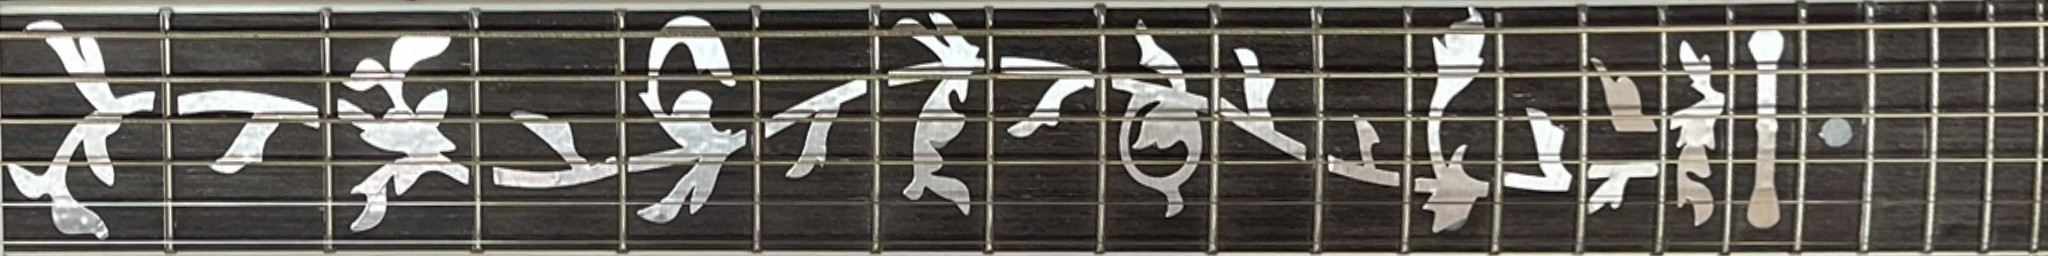
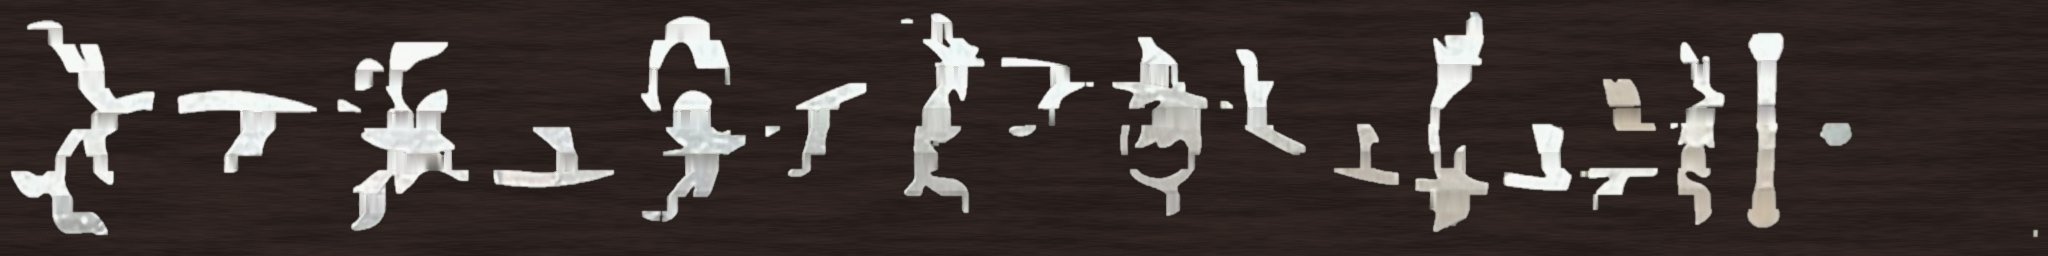
Clean fretboard, headstock face and rosette textures
The fretboard texture no longer bakes in the photographed strings, string
shadows, fret wires or wallpaper: only the pearl tree-of-life inlay is
lifted from the fret-by-fret rectified photo (string bands cleared and
bridged, fret wires dropped) and composited onto procedural dark rosewood.
The headstock face keeps only the Veston logo on satin black so the
modelled tuners do not double up. Adds an optional GuitarTextures.rosette
field to the shared contract (additive).

diff --git a/packages/shared/src/guitar.ts b/packages/shared/src/guitar.ts
@@ -23,6 +23,12 @@ export interface GuitarTextures {
   headstock?: string;
   /** Back photo of the body (optional), same mapping as bodyTop but mirrored across y. */
   bodyBack?: string;
+  /**
+   * Square RGBA ring texture of the rosette (optional), centred on body.soundhole: the texture's
+   * inscribed circle is the rosette's outer edge and the soundhole edge sits at 78 % of that
+   * radius (transparent inside).
+   */
+  rosette?: string;
 }
 
 export interface GuitarFinish {

diff --git a/scripts/build-veston-textures.py b/scripts/build-veston-textures.py
@@ -5,8 +5,11 @@ The photo is taken at a slight angle, so a single 4-corner homography misplaces
 the frets by up to ~80 px. Instead every fret wire was measured by hand in the
 photo and the fretboard is warped piecewise between consecutive frets, so the
 photographed fret wires land exactly on the 12-TET positions used by the 3D neck.
-The photographed strings are kept: they sit right under the 3D strings and read as
-their shadows, while inpainting them damaged the pearl inlays.
+The final fretboard texture is *clean*: only the pearl tree-of-life inlay is lifted
+from the photo (bright, low-saturation, wide shapes; strings and fret wires are thin
+lines and are removed by a morphological opening followed by a short constrained
+reconstruction) and composited onto a procedural dark rosewood. No strings, string
+shadows, fret wires or wallpaper remain; the 3D model draws frets, binding and strings.
 
 Run: python3 scripts/build-veston-textures.py   (needs Pillow)
 """
@@ -14,7 +17,9 @@ import json
 import math
 from pathlib import Path
 
-from PIL import Image
+import random
+
+from PIL import Image, ImageChops, ImageFilter
 
 ROOT = Path(__file__).resolve().parent.parent
 SRC = ROOT / "assets/photos/front-neck.jpg"
@@ -134,10 +139,125 @@ def build_headstock(img, out_w=512, out_h=1024):
     return res, meta
 
 
+def fret_columns(out_w):
+    total = 1 - 2 ** (-PHOTO_FRET / 12)
+    return [(1 - 2 ** (-n / 12)) / total * out_w for n in range(0, PHOTO_FRET + 1)]
+
+
+def _runs(seq):
+    """(start, end) of the True runs in a list of booleans."""
+    out, start = [], None
+    for i, v in enumerate(seq):
+        if v and start is None:
+            start = i
+        elif not v and start is not None:
+            out.append((start, i))
+            start = None
+    if start is not None:
+        out.append((start, len(seq)))
+    return out
+
+
+# Rows of the photographed strings in the 2048x256 rectified board (low E first), measured as
+# brightness peaks of the column-median at u = 128 and u = 1920; linear in between.
+STRING_ROWS = [(36, 25), (80, 70), (121, 115), (163, 160), (204, 201), (242, 243)]
+STRING_U = (128, 1920)
+
+
+def inlay_mask(rect, edge=12, band=6, fret_px=16):
+    """Pearl inlay of the rectified fretboard photo -> (alpha mask, pearl colour image).
+
+    1. candidate pixels: bright and low-saturation (pearl), away from the binding.
+    2. strings: a band of +-band px around every photographed string is cleared; per
+       column the band is re-filled only where pearl continues on both sides of it
+       (the string crossed an inlay), its colour interpolated from above and below.
+    3. fret wires run across the board: per row, short runs (< fret_px) centred near
+       a fret column are dropped (the 3D frets sit there anyway).
+    4. specks are removed by a small opening; the edge is softened.
+    """
+    w, h = rect.size
+    hsv = rect.convert("HSV").load()
+    px = rect.load()
+    colour = rect.copy()
+    cp = colour.load()
+    m = [[False] * h for _ in range(w)]  # m[x][y]
+    for x in range(w):
+        col = m[x]
+        for y in range(edge, h - edge):
+            _, s_, v = hsv[x, y]
+            col[y] = v > 125 and s_ < 70
+        t = (x - STRING_U[0]) / (STRING_U[1] - STRING_U[0])
+        for r0, r1 in STRING_ROWS:
+            c = r0 + (r1 - r0) * t
+            a, b = max(0, int(c - band)), min(h - 1, int(c + band) + 1)
+            ya = next((y for y in range(a - 1, max(a - 7, -1), -1) if col[y]), None)
+            yb = next((y for y in range(b + 1, min(b + 7, h)) if col[y]), None)
+            for y in range(a, b + 1):
+                col[y] = False
+            if ya is not None and yb is not None:
+                # the string crossed the pearl: bridge the gap, colour from both sides
+                top, bot = px[x, max(ya - 1, 0)], px[x, min(yb + 1, h - 1)]
+                for y in range(ya + 1, yb):
+                    k = (y - ya) / (yb - ya)
+                    col[y] = True
+                    cp[x, y] = tuple(int(top[q] + (bot[q] - top[q]) * k) for q in range(3))
+    frets = fret_columns(w)
+    for y in range(h):
+        row = [m[x][y] for x in range(w)]
+        for a, b in _runs(row):
+            c = (a + b) / 2
+            if b - a < fret_px and min(abs(c - f) for f in frets) < 12:
+                for x in range(a, b):
+                    m[x][y] = False
+    mask = Image.new("L", (w, h))
+    mp = mask.load()
+    for x in range(w):
+        for y in range(h):
+            if m[x][y]:
+                mp[x, y] = 255
+    mask = mask.filter(ImageFilter.MinFilter(5)).filter(ImageFilter.MaxFilter(5))
+    return mask.filter(ImageFilter.GaussianBlur(0.8)), colour
+
+
+def rosewood(w, h, seed=7):
+    """Procedural dark rosewood: long streaks along u (the grain) at two scales."""
+    rnd = random.Random(seed)
+
+    def streaks(cols, rows):
+        n = Image.new("L", (cols, rows))
+        n.putdata([rnd.randint(0, 255) for _ in range(cols * rows)])
+        return n.resize((w, h), Image.BICUBIC)
+
+    coarse = streaks(24, 40)
+    fine = streaks(160, 220)
+    cp, fp = coarse.load(), fine.load()
+    out = Image.new("RGB", (w, h))
+    op = out.load()
+    for y in range(h):
+        for x in range(w):
+            t = (cp[x, y] - 128) / 128 * 0.55 + (fp[x, y] - 128) / 128 * 0.45
+            k = 1 + 0.22 * t
+            op[x, y] = (int(44 * k), int(34 * k), int(31 * k))
+    return out
+
+
+def build_clean_fretboard(img):
+    rect = build_fretboard(img)
+    alpha, pearl = inlay_mask(rect)
+    pearl = pearl.filter(ImageFilter.MedianFilter(3))
+    pearl = Image.blend(pearl, Image.new("RGB", rect.size, (226, 228, 222)), 0.2)
+    wood = rosewood(*rect.size)
+    # thin dark cut line around the inlay
+    rim = alpha.filter(ImageFilter.MaxFilter(3))
+    wood = Image.composite(Image.new("RGB", rect.size, (20, 16, 15)), wood, rim.point(lambda v: v // 2))
+    return Image.composite(pearl, wood, alpha), alpha
+
+
 def main():
     img = Image.open(SRC).convert("RGB")
     OUT.mkdir(parents=True, exist_ok=True)
-    build_fretboard(img).save(OUT / "fretboard.jpg", quality=90)
+    clean, alpha = build_clean_fretboard(img)
+    clean.save(OUT / "fretboard.jpg", quality=86, optimize=True, progressive=True)
     head, meta = build_headstock(img)
     head.save(OUT / "headstock.jpg", quality=90)
     meta["photoFret"] = PHOTO_FRET

diff --git a/scripts/measure-veston.py b/scripts/measure-veston.py
@@ -408,7 +408,7 @@ def main():
         },
         "textures": {
             "fretboard": {"url": "/guitar/fretboard.jpg", "toFret": 20},
-            "headstock": "/guitar/headstock.jpg",
+            "headstock": "/guitar/headstock-face.jpg",
             "rosette": "/guitar/rosette.png",
         },
         "source": "Measured from assets/photos/front-full.jpg by scripts/measure-veston.py "
@@ -416,6 +416,7 @@ def main():
     }
     (OUT / "veston.profile.json").write_text(json.dumps(profile, indent=1))
     build_rosette(img, fr)
+    build_headstock_face(profile["headstock"])
     print("wrote", OUT / "veston.profile.json")
 
     if debug:
@@ -459,6 +460,31 @@ def build_rosette(img, fr, inner=0.78, size=512):
             edge = min(1.0, (1.0 - r) * size / 2, (r - inner + 0.01) * size / 2)
             op[i, j] = (c[0], c[1], c[2], int(255 * max(0.0, edge)))
     out.save(OUT / "rosette.png")
+
+
+def build_headstock_face(head, out_w=512, out_h=1024):
+    """Clean headstock face: the photographed logo on a uniform satin black.
+
+    headstock.jpg (scripts/build-veston-textures.py) also shows the photographed tuner
+    posts and strings, which would double up with the modelled hardware, so only the
+    bright logo strokes above the top tuner pair are kept.
+    """
+    src = Image.open(OUT / "headstock.jpg").convert("RGB").resize((out_w, out_h))
+    sp = src.load()
+    top_tuner = max(head["tunersLowE"] + head["tunersHighE"]) / head["lengthCm"]
+    logo_end = int((1 - top_tuner) * out_h) - 70
+    base = (17, 17, 18)
+    out = Image.new("RGB", (out_w, out_h), base)
+    op = out.load()
+    for j in range(8, logo_end):
+        fade = min(1.0, (logo_end - j) / 20)
+        for i in range(24, out_w - 24):
+            r, g, b = sp[i, j]
+            lum = (r + g + b) / 3
+            a = max(0.0, min(1.0, (lum - 70) / 90)) * fade
+            if a > 0:
+                op[i, j] = tuple(int(base[c] + (235 - base[c]) * a) for c in range(3))
+    out.save(OUT / "headstock-face.jpg", quality=92)
 
 
 if __name__ == "__main__":
